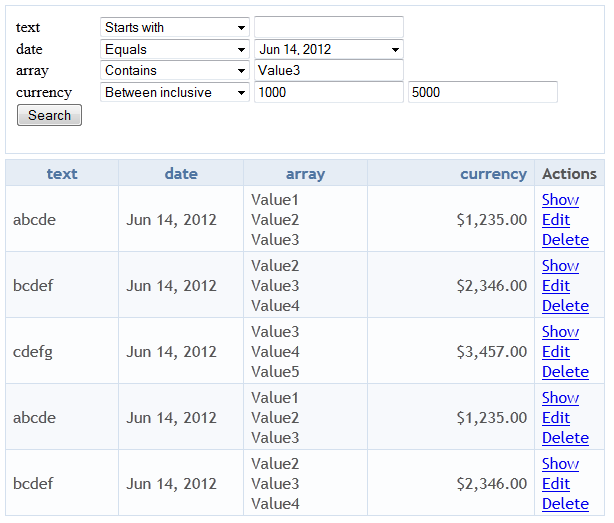
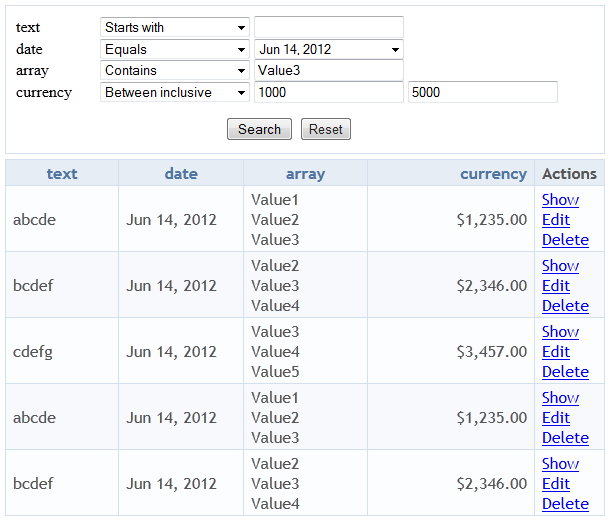
Add the reset filters feature (#36) + ...
* Move the checkbox of massaction from the filters row to the titles row
* Add the reset filters feature (#36)
* Add a reset button in the massaction column of the filters row
* Add a reset link in the actions column of the filters row
* Add a reset button in the grid search box
* Update screenshots
* [BC Break] Pass the grid object to the cell and filter blocks instead
of the hash of the grid

Changed region(s): [[0.3713, 0.2141, 0.5879, 0.2753], [0.0309, 0.2141, 0.1547, 0.2447]]

diff --git a/Resources/doc/grid_configuration/working_example.css b/Resources/doc/grid_configuration/working_example.css
@@ -23,6 +23,11 @@
     text-decoration: none;
 }
 
+.grid th a.grid-reset {
+    margin-left: 5px;
+    font-weight: normal;
+}
+
 .grid tr.even
 {
     background-color: #FCFDFE;

diff --git a/Twig/DataGridExtension.php b/Twig/DataGridExtension.php
@@ -178,7 +178,7 @@ class DataGridExtension extends \Twig_Extension
          || $this->hasBlock($block = 'grid_column_'.$column->getType().'_cell')
          || $this->hasBlock($block = 'grid_column_'.$column->getParentType().'_cell'))
         {
-            return $this->renderBlock($block, array('column' => $column, 'value' => $value, 'row' => $row, 'hash' => $grid->getHash()));
+            return $this->renderBlock($block, array('column' => $column, 'value' => $value, 'row' => $row, 'grid' => $grid));
         }
 
         return $value;
@@ -205,7 +205,7 @@ class DataGridExtension extends \Twig_Extension
          || $this->hasBlock($block = 'grid_column_filter_type_'.$column->getFilterType())
          || $this->hasBlock($block = 'grid_column_type_'.$column->getParentType().'_filter'))
         {
-            return $this->renderBlock($block, array('column' => $column, 'hash' => $grid->getHash(), 'submitOnChange' => $submitOnChange));
+            return $this->renderBlock($block, array('column' => $column, 'grid' => $grid, 'submitOnChange' => $submitOnChange));
         }
 
         return '';
@@ -232,6 +232,8 @@ class DataGridExtension extends \Twig_Extension
                 return $grid->getRouteUrl().$separator.$grid->getHash().'['.Grid::REQUEST_QUERY_PAGE.']='.$param;
             case 'limit':
                 return $grid->getRouteUrl().$separator.$grid->getHash().'['.Grid::REQUEST_QUERY_LIMIT.']=';
+            case 'reset':
+                return $grid->getRouteUrl().$separator.$grid->getHash().'['.Grid::REQUEST_QUERY_RESET.']=';
         }
     }
 

diff --git a/Grid/Grid.php b/Grid/Grid.php
@@ -33,6 +33,7 @@ class Grid
     const REQUEST_QUERY_LIMIT = '_limit';
     const REQUEST_QUERY_ORDER = '_order';
     const REQUEST_QUERY_TEMPLATE = '_template';
+    const REQUEST_QUERY_RESET = '_reset';
 
     /**
      * @var \Symfony\Component\HttpFoundation\Session;
@@ -226,8 +227,9 @@ class Grid
         //generate hash
         $this->createHash();
 
-        // Persistence - kill previous session
-        if (!$this->request->isXmlHttpRequest() && !$this->persistence && $this->request->headers->get('referer') != $this->request->getUriForPath($this->request->getPathInfo())) {
+        // Persistence or reset - kill previous session
+        if ((!$this->request->isXmlHttpRequest() && !$this->persistence && $this->request->headers->get('referer') != $this->request->getUriForPath($this->request->getPathInfo()))
+         || !is_null($this->getDataFromContext(self::REQUEST_QUERY_RESET, true, false))) {
             $this->session->remove($this->getHash());
         }
 

diff --git a/Grid/Column/ActionsColumn.php b/Grid/Column/ActionsColumn.php
@@ -27,7 +27,7 @@ class ActionsColumn extends Column
             'title'      => $title,
             'sortable'   => false,
             'source'     => false,
-            'filterable' => false
+            'filterable' => true // Show a reset link instead of a filter
         ));
     }
 
@@ -86,6 +86,11 @@ class ActionsColumn extends Column
     public function getSeparator()
     {
         return $this->separator;
+    }
+
+    public function getFilterType()
+    {
+        return $this->getType();
     }
 
     public function getType()

diff --git a/CHANGELOG.md b/CHANGELOG.md
@@ -3,6 +3,13 @@
  * Fix bug - Filterable attribute from a source annotation doesn't work
  * Don't show a mapped field column if it has not been defined with a column annotation
  * Fix #144
+ * Move the checkbox of massaction from the filters row to the titles row
+ * Add the reset filters feature (#36)
+ * Add a reset button in the massaction column of the filters row
+ * Add a reset link in the actions column of the filters row
+ * Add a reset button in the grid search box
+ * Update screenshots
+ * [BC Break] Pass the grid object to the cell and filter blocks instead of the hash of the grid
 
 `16 Jun 2012`
 

diff --git a/UPGRADE-2.0.md b/UPGRADE-2.0.md
@@ -117,5 +117,9 @@ Range works for the type `number` too.
 Before: `$grid->setData($array);`  
 After: `$source->setData($array);`
 
+## Pass the grid object to the cell and filter blocks instead of the hash of the grid
+
+Before: `{{ hash }}`  
+After: `{{ grid.hash }}`
 
 **And Clear your cache!**

diff --git a/Resources/doc/grid_configuration/working_example.md b/Resources/doc/grid_configuration/working_example.md
@@ -122,6 +122,11 @@ And the template:
     text-decoration: none;
 }
 
+.grid th a.grid-reset {
+    margin-left: 5px;
+    font-weight: normal;
+}
+
 .grid tr.even
 {
     background-color: #FCFDFE;
